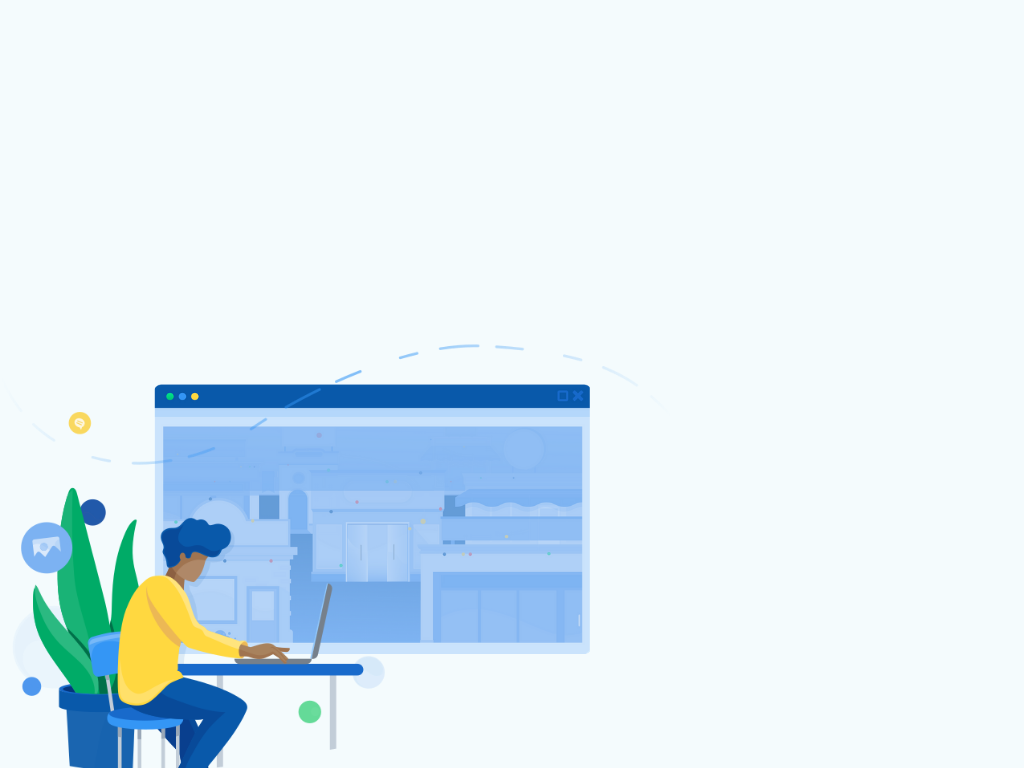
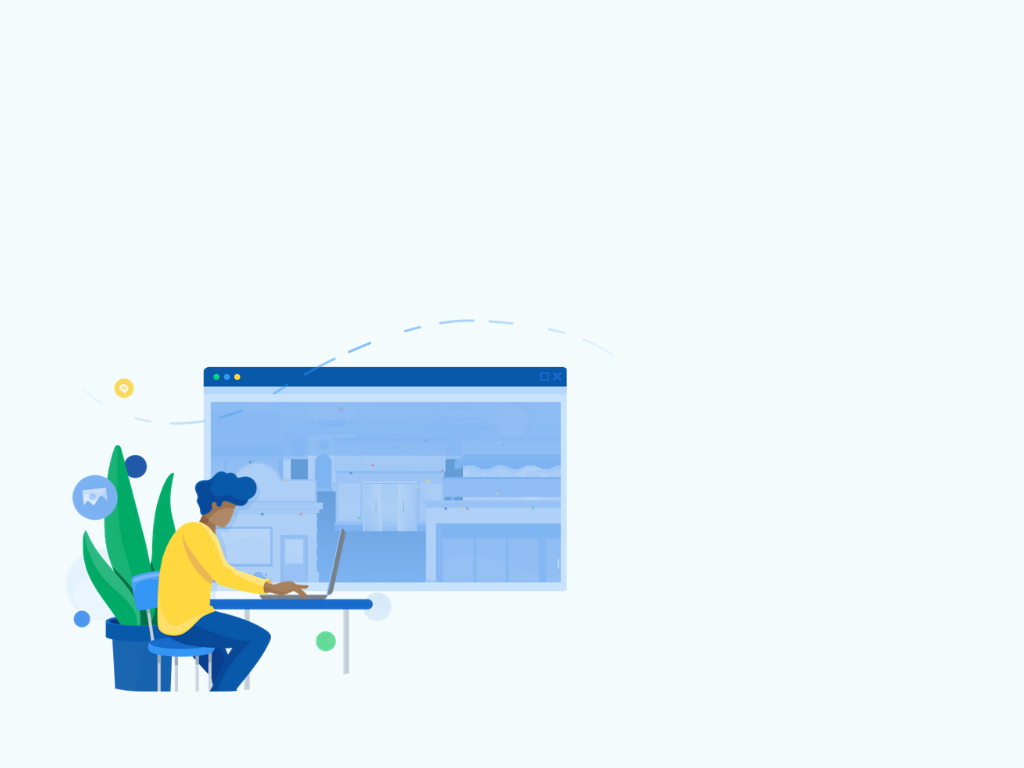
home page and code store page nearing completion

Changed region(s): [[0.0, 0.4375, 0.5938, 1.0], [0.0625, 0.5312, 0.0938, 0.5625]]

diff --git a/public/css/style.css b/public/css/style.css
@@ -2,15 +2,25 @@
 * {
     box-sizing: border-box;
     overflow: hidden;
-
 }
+
+.navbar-toggler-icon {
+    /* color: white;
+    font-size: 1.6rem; */
+}
+/* .logo {
+    height: 50px;
+   top: -10px;
+} */
 .homepage {
-    background-image: url('../img/background.png');
-    min-height: 95vh;
+    background: url('../img/background.png');
     background-position: center;
     background-size: cover;
    background-repeat: no-repeat;
    background-position: center center;
+   height: 100vh;
+
+   
 }
 
 .landing {
@@ -36,15 +46,16 @@
 
 .landingform {
     border: 1px solid darkgray;
+    border-radius: .5rem;
     position: relative;
     /* margin: 0; */
-    margin-left: 10rem;
+    margin-left: 11rem;
     margin-top: 0;
-    display: inline-block;
+    display: block;
     padding: 5%;
     width: 350px;
     height: 480px;
-    box-shadow: 5px 2px 23px 5px rgba(100, 121, 102, 0.3);
+    box-shadow: 5px 2px 23px 5px rgba(81, 163, 211, 0.3);
 }
 .terms {
     padding-top: .8em;
@@ -99,56 +110,77 @@ color: #fff;
     margin-left: 30%;
 }
 
-/* Create new note*/
-.sidebar {
-  background: #343A40;
-  width: 350px;
-  height: 100vh;
-  margin-right: 30px;
-  overflow: scroll;
+
+/* New note button */
+
+#plus {
+    width: 100px;
+  cursor:pointer;
+  transition: all .3s ease 0s;
+  height: 100px;
+  background: rgba(16,89,170);
+  border-radius: 50%;
+  position: fixed;
+    bottom: 65px;
+    right: 65px;
+    
+    
+    
 }
 
-/* Creating new notes */
-#background-color {
-    background-color: #f5f5f5;
+#addNoteContainer {
+    font-size: 40px;
+    text-align: center;
 }
-#notesContainer {
-    background-color: white;
-    color: #555;
-    display: flex;
-    flex-wrap: wrap;
-    list-style: none;
-}
-#notesContainer,
-#notesContainer ul {
-    padding: 0;
-}
-#notesContainer {
-    border: 1px dashed #aaa;
-    width: 400px;
-    height: 325px;
-    margin-top: 13%;
-    margin-left: 37%;
-    position: absolute;
-}
+
 
 #addIcon {
-    top: 50%;
-    left: 52%;
-    opacity: 1;
-    width: 60px;
-    height: 55px;
-    font-size: 80px;
+    text-decoration: none;
+    font-weight: lighter;
+    font-size: 100px;
     cursor: pointer;
-    line-height: 42px;
-    position: absolute;
-    border-radius: 5px;
-    text-align: center;
-    visibility: visible;
-    border: 1px dashed #aaa;
-    transform: translate(-50%, -50%);
-    transition: visibility, opacity 0.3s ease-in-out;
+    color: white;
+    display: block;
+        position: relative;
+        margin: 0 auto;
+        bottom: 2rem;
 }
-.new {
+
+#addIcon:hover {
+    background-color: yellow;
+    color: black;
+    text-decoration: none;
+}
+
+/* notes */
+
+.new-note {
     display: inline-block;
+    padding: 1rem;
+    margin: 3rem
+    border: 1px solid black;
+}
+
+.notes {
+    display: flex;
+    width: 280px;
+    height: 280px;
+    margin: 0px 10px 10px;
+    margin-left: 5rem;
+    box-shadow: 1px 3px 5px rgba(0, 0, 0, 0.2);
+
+    /* align-items: center;
+    justify-content: center;
+    padding-top: 10rem;
+    border: 1px black solid;
+    margin: 1rem; */
+}
+
+.note-content {
+    padding: 10px 16px 16px;
+    font-size: 20px;
+    /* text-align: center;
+    border-radius: 8px;
+    cursor: pointer; */
+
 }

diff --git a/views/notes/index.jsx b/views/notes/index.jsx
@@ -1,30 +1,34 @@
 const React = require("react");
 const Layout = require("../layout.jsx");
+// const { default: Editor } = require("./editor.js");
 
 class Index extends React.Component {
   render() {
     const { notes } = this.props;
     return (
       <Layout title="My Notes">
-        <body id="background-color">
-          <ul id="notesContainer">
-            <li id="addNoteContainer" class="noteContainer">
-              <a href="/notes/new"><span id="addIcon" title="Click to add a note" onclick="addNote()">+</span></a>
-            </li>
-          </ul>
-
-          {notes.map((note) => (
-            <div>
-              <h2>{note.note}</h2>
+        <div class="plus" id="plus">
+          <div id="addNoteContainer" class="noteContainer">
+            <a href="/notes/new"><span id="addIcon" title="Click to add a note" onclick="addNote()">+</span></a>
+          </div>
+        </div>
+        {/* <Editor> */}
+        {notes.map((note) => (
+          <div class="new-note">
+            {/* title */}
+            <div className="notes">{note.note}
+              {/* body */}
               <form action={`/notes/${note._id}?_method=DELETE`} method="POST">
+                {/* delete button */}
                 <input type="submit" value="Delete" />
               </form>
               <form action={`/notes/edit/${note._id}`} method="GET">
                 <input type="submit" value="Edit" />
               </form>
             </div>
-          ))}
-        </body>
+          </div>
+        ))}
+        {/* </Editor> */}
       </Layout>
     );
   }

diff --git a/views/signup/signup.jsx b/views/signup/signup.jsx
@@ -9,16 +9,16 @@ class Signup extends React.Component {
                 <form action="/auth/signup" method="post" className="landingform">
                     <h4>Sign up for free</h4>
                     <br></br>
-                    <div>
-                        <label>Username:</label>
-                        <input type="text" name="username" placeholder="johndoe" />
+                    <div class="form-group">
+                        <label for="formGroupExampleInput">Username:</label>
+                        <input type="text" class="form-control" id="formGroupExampleInput" name="username" placeholder="johndoe" />
                     </div>
-                    <div>
-                        <label>Password:</label>
-                        <input type="password" name="password" placeholder="********"></input>
+                    <div class="form-group">
+                        <label for="formGroupExampleInput2">Password:</label>
+                        <input type="password" name="password" class="form-control" id="formGroupExampleInput2" placeholder="********"></input>
                     </div>
                     <br></br>
-                    <input type="submit" value="signup" className="terms" />
+                    <input type="submit" value="signup" />
                     <p className="terms">By clicking Sign up, I agree to the <a href="/">Terms of Service</a> and <a href="/">Privacy Policy.</a></p>
                     <br></br>
                 </form>

diff --git a/views/crud/new.jsx b/views/crud/new.jsx
@@ -1,21 +1,21 @@
-const React = require("react");
-const Layout = require("../layout.jsx");
+// const React = require("react");
+// const Layout = require("../layout.jsx");
 
-class Index extends React.Component {
-  render() {
-    const { notes } = this.props
-    return (
-      <Layout title="New Notes">
-        <div className="new-notes">
-          <form action="/notes/" method="post">
-            <input type="text" placeholder="title" />
-            <input type="text" placeholder="write your note here" name="note" />
-            <input type="submit" value="create note" />
-          </form>
-        </div>
-      </Layout>
-    );
-  }
-}
+// class Index extends React.Component {
+//   render() {
+//     const { notes } = this.props
+//     return (
+//       <Layout title="New Notes">
+//         <div className="new-notes">
+//           <form action="/notes/" method="post">
+//             {/* <input type="text" placeholder="title" /> */}
+//             <input type="text" placeholder="write your note here" name="note" />
+//             <input type="submit" value="create note" />
+//           </form>
+//         </div>
+//       </Layout>
+//     );
+//   }
+// }
 
-module.exports = Index;
+// module.exports = Index;

diff --git a/views/notes/editor.js b/views/notes/editor.js
@@ -1,0 +1,39 @@
+import React from 'react'
+import 'codemirror/lib/codemirror.css'
+import 'codemirror/theme/material.css'
+import 'codemirror/mode/javascript/xml'
+import 'codemirror/mode/javascript/javascript'
+import 'codemirror/mode/css/css'
+import { Controlled as ControlledEditor } from 'react-codemirror2'
+
+
+const Editor = () => {
+    const { language, value, onChange } = props;
+
+    function handleChange(value) {
+        onChange(value)
+    }
+    return (
+        <div className="editor-container">
+            <ControlledEditor
+                onBeforeChange={handleChange}
+                value={value}
+                className="code-mirror-wrapper"
+                options={{
+                    lineWrapping: true,
+                    lint: true,
+                    mode: language,
+                    lineNumbers: true
+
+
+                }}
+
+
+
+            />
+
+        </div>
+    )
+}
+
+export default Editor

diff --git a/views/notes/edit.jsx b/views/notes/edit.jsx
@@ -1,15 +1,20 @@
 const React = require("react");
 const Layout = require("../layout.jsx");
+// const { default: Editor } = require("./editor.js");
 
 class Index extends React.Component {
   render() {
     const { note } = this.props
     return (
       <Layout title="Edit Note">
-        <form action={`/notes/edit/${note._id}?_method=PUT`} method="post">
-          <input type="text" value={note.note} placeholder="write your note here" name="note" />
-          <input type="submit" value="edit note" />
-        </form>
+        {/* <Editor> */}
+        <div className="notes">
+          <form action={`/notes/edit/${note._id}?_method=PUT`} method="post">
+            <input type="text" value={note.note} placeholder="write your note here" name="note" className="note-content" />
+            <input type="submit" value="edit note" />
+          </form>
+        </div>
+        {/* </Editor> */}
       </Layout>
     );
   }

diff --git a/views/notes/new.jsx b/views/notes/new.jsx
@@ -1,18 +1,22 @@
 const React = require("react");
 const Layout = require("../layout.jsx");
+// const { default: Editor } = require("./editor.js");
 
 class Index extends React.Component {
   render() {
     const { notes } = this.props
     return (
       <Layout title="New Notes">
-        <div className="new-notes">
+        {/* <Editor> */}
+        <div className="notes">
           <form action="/notes/" method="post">
-            <input type="text" placeholder="title" />
-            <input type="text" placeholder="write your note here" name="note" />
+            {/* <input type="text" placeholder="title" /> */}
+            <input type="text" placeholder="write your note here" name="note" className="note-content" />
+            {/* <br></br> */}
             <input type="submit" value="create note" />
           </form>
         </div>
+        {/* </Editor> */}
       </Layout>
     );
   }

diff --git a/views/crud/index.jsx b/views/crud/index.jsx
@@ -15,7 +15,7 @@ class Index extends React.Component {
           </ul>
 
           {notes.map((note) => (
-            <div>
+            <div class="notes">
               {/* not created */}
               <h2>{note.note}</h2>
               {/* delete button */}

diff --git a/views/layout.jsx b/views/layout.jsx
@@ -43,7 +43,7 @@ class Layout extends React.Component {
           <footer>
           </footer>
         </body>
-      </html>
+      </html >
     );
   }
 }
